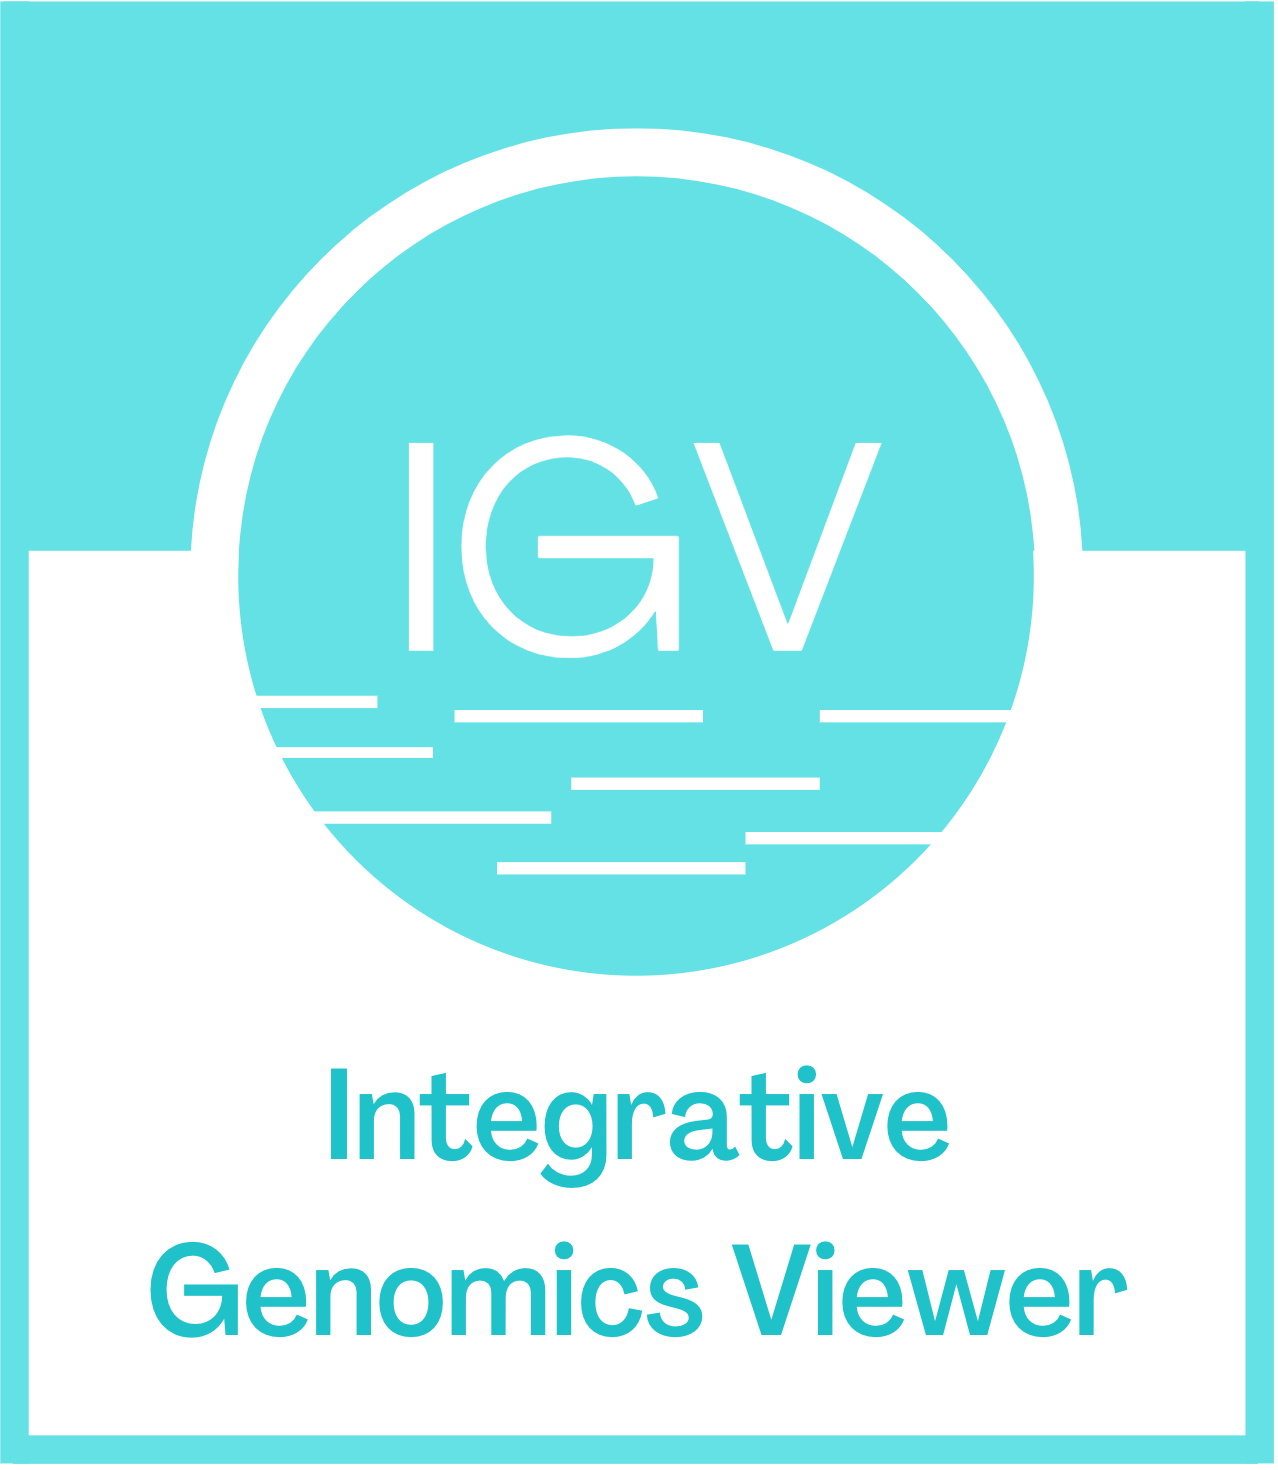
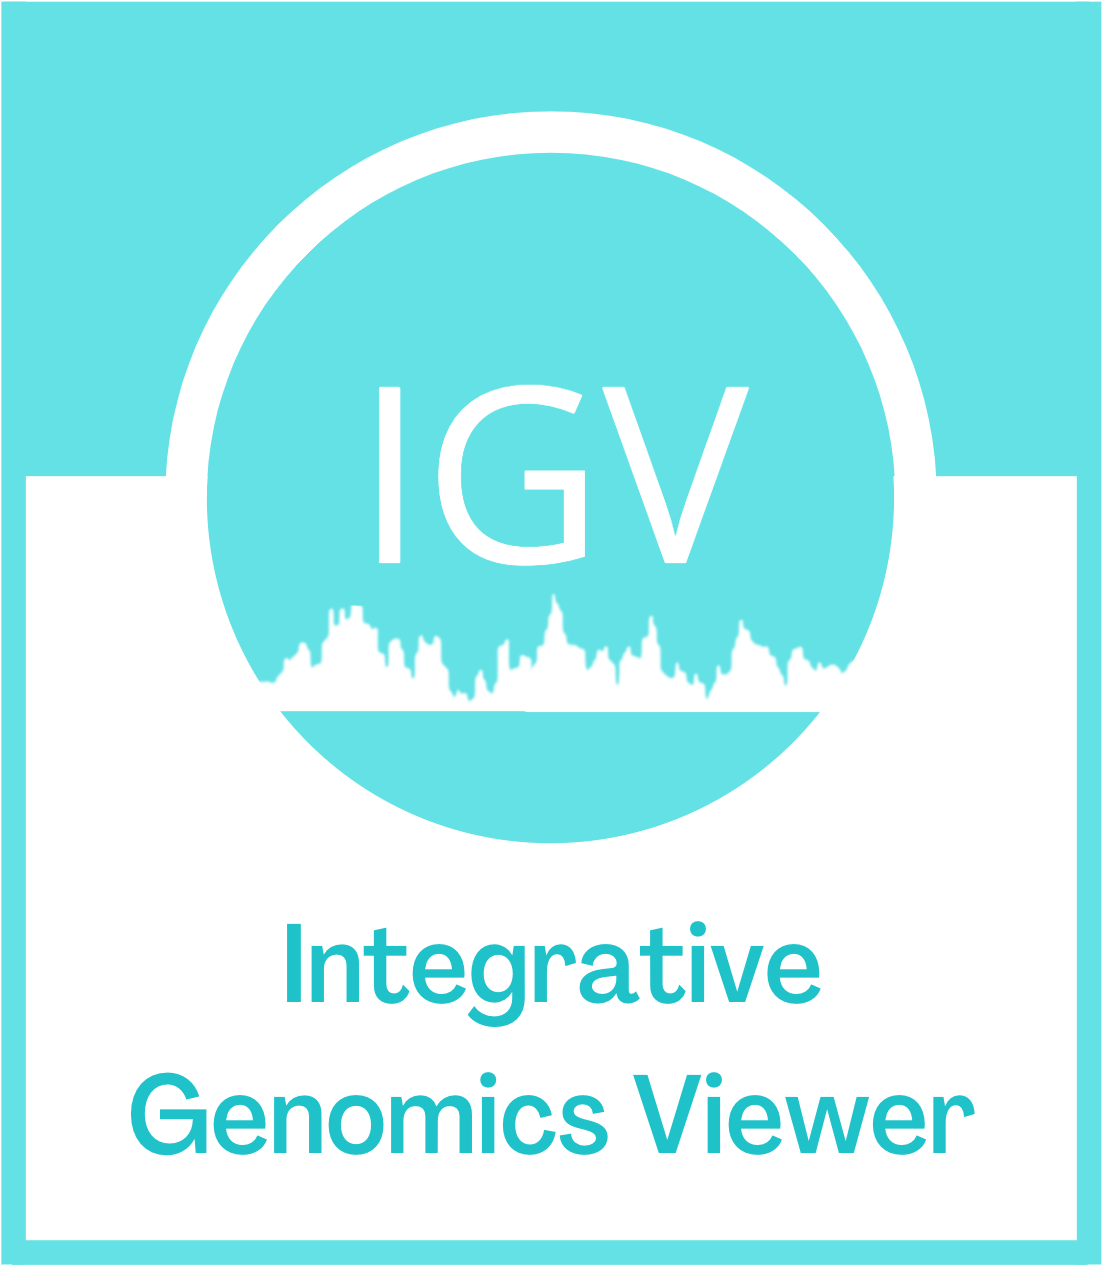
remove old files

diff --git a/genetics_ark/templates/genetics_ark/genetics_ark.html b/genetics_ark/templates/genetics_ark/genetics_ark.html
@@ -43,7 +43,7 @@
 				</section>
 				<section>
 					<div class="content" data-tooltip="Load IGV for visualisation of sequencing data">
-						<a href="nexus_search"><img src="/static/images/igv3.png" style="width:150px;height:170px;"></a>
+						<a href="nexus_search"><img src="/static/images/igv.png" style="width:150px;height:170px;"></a>
 					</div>
 				</section>
 				<section>
